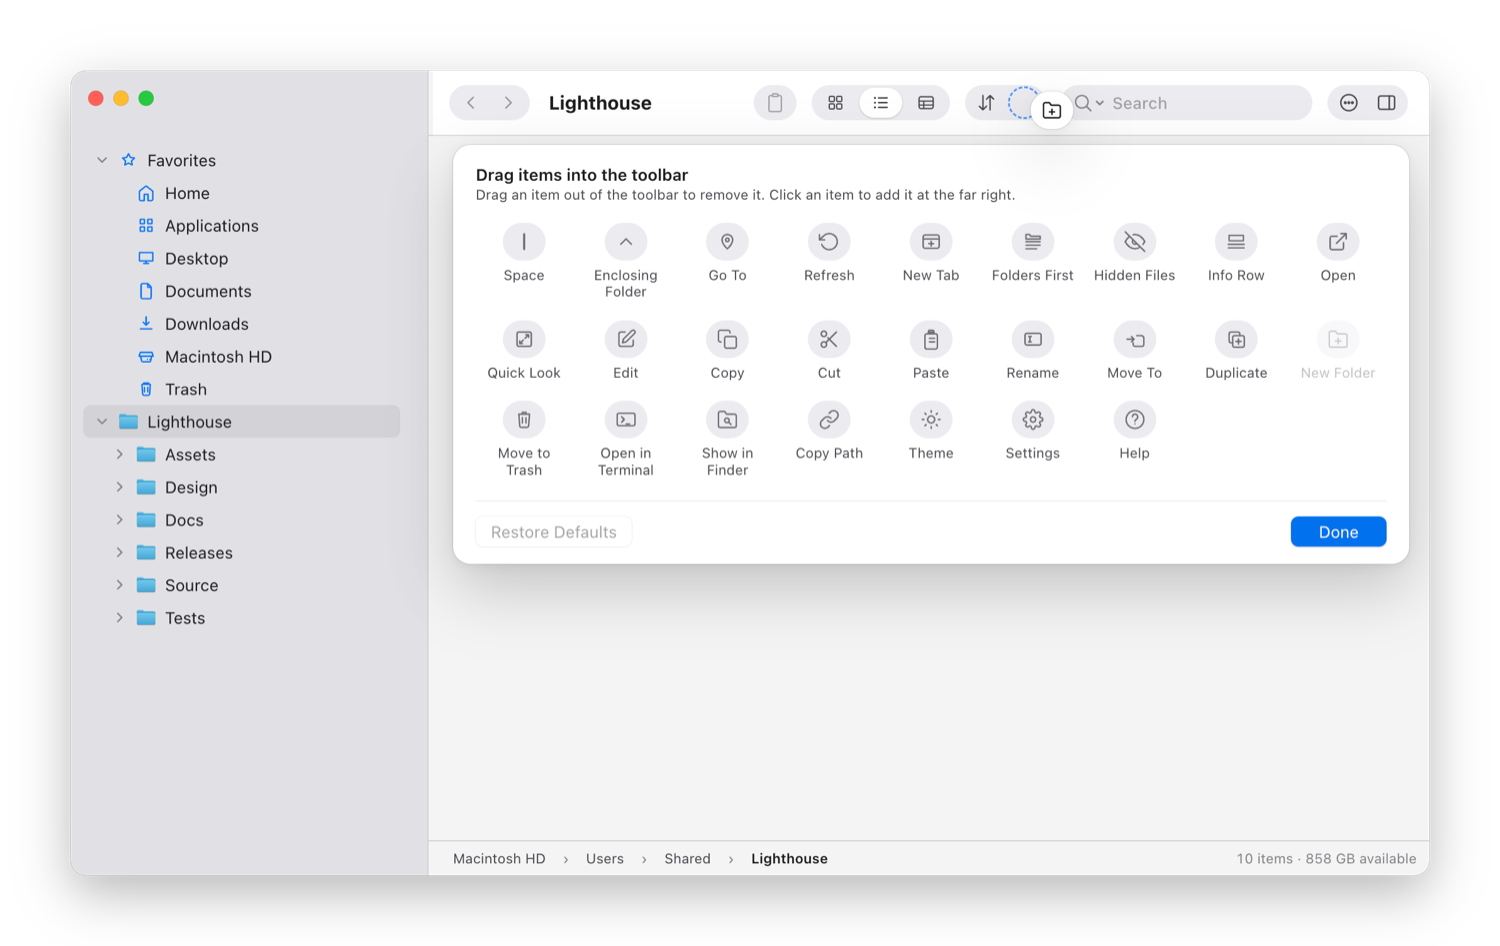
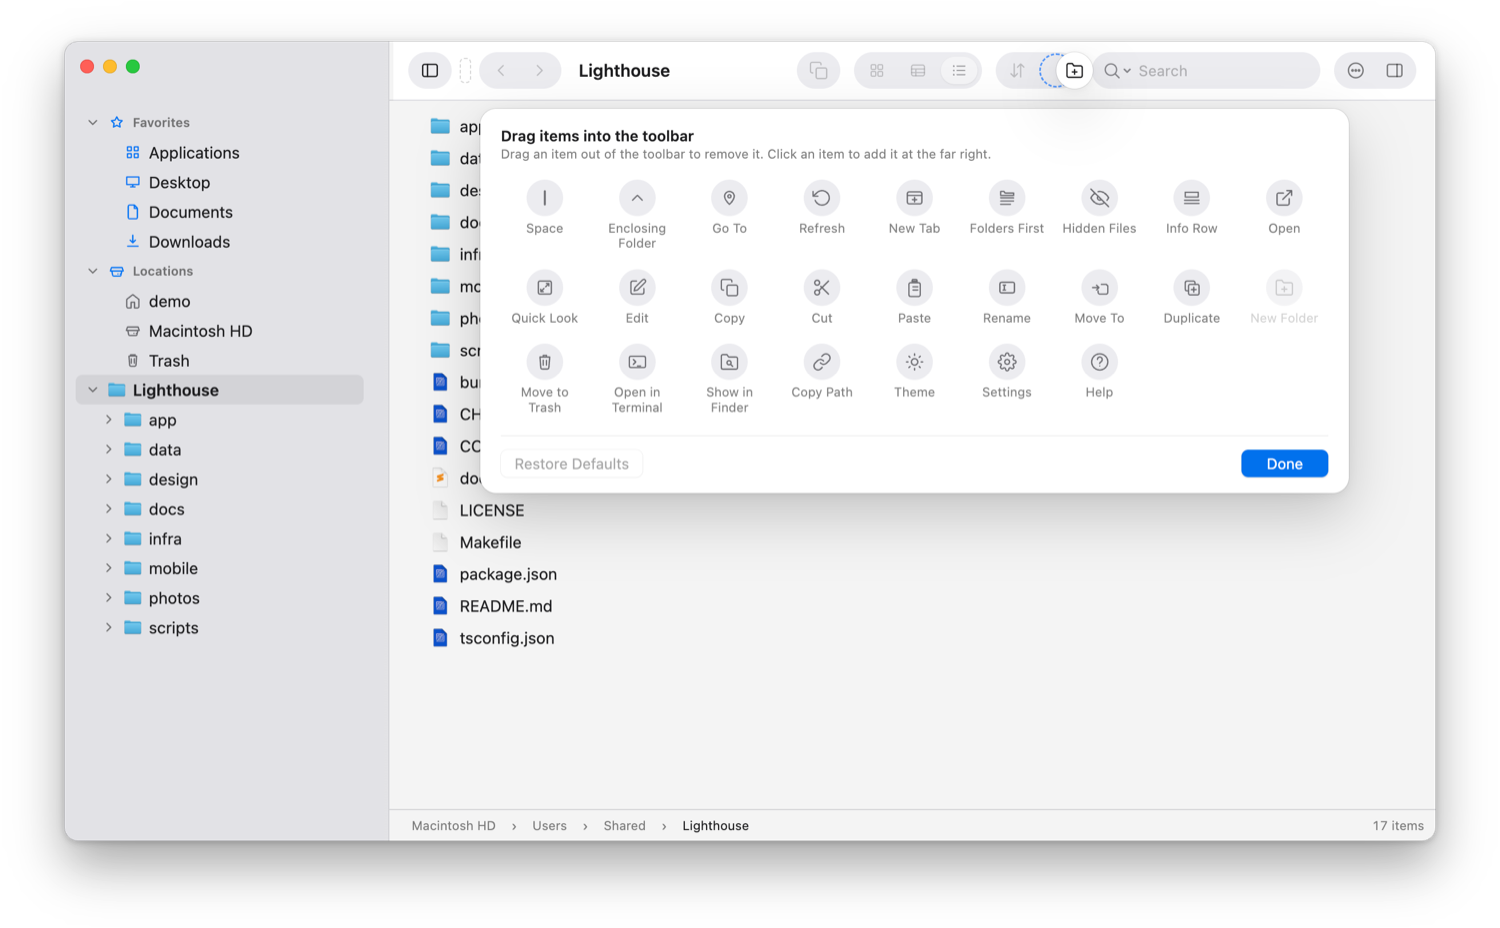
Retake the README screenshots and bring the README up to date
The screenshots showed the app from before the Settings sidebar, Locations,
search results in the folder views and the Finder-style toolbar. They are
retaken from the current build in the same demo project, with the Home row
shown as "demo", and a new one shows the Rename sheet.

The README now covers renaming several items at once, Locations and disks,
and search results in every view. It uses the current view names (Icons,
List, Compact List) and conflict choices (Add Missing), points to the
releases page for notarized builds, and keeps build from source for
unreleased changes and development, with signing folded away.

diff --git a/README.md b/README.md
@@ -5,42 +5,52 @@ A file browser for macOS, built to fix the places where Finder falls short.
 <p align="center">
   <picture>
     <source media="(prefers-color-scheme: dark)" srcset="docs/screenshots/folder-sizes-dark.png">
-    <img src="docs/screenshots/folder-sizes-light.png" alt="File Trail showing a project folder in Details view, sorted by size, with the Info panel open" width="900">
+    <img src="docs/screenshots/folder-sizes-light.png" alt="File Trail showing a project folder in List view, sorted by size, with the Info panel open" width="900">
   </picture>
 </p>
 
 Finder covers the basics. File Trail is for the things it gets wrong or leaves out:
 
-- **Search that works, and is fast.** Results appear as you type, by name or by full path, in plain text, glob or regex.
-- **Type to filter.** Start typing in a folder and the list narrows to the names containing what you typed, where Finder only jumps to one.
-- **A folder tree, not just a sidebar.** You see where you are and what is around it, instead of a flat list of favorites.
-- **Tabs that keep their place.** Each has its own folder, history, view and search.
-- **A clipboard you can see.** What you copied or cut stays marked, and listed in the toolbar, until you paste it.
-- **Folder sizes when you ask.** One click measures a folder and everything in it, and shows what takes the space.
-- **Yours to arrange.** The toolbar, the keyboard shortcuts and the accent color are all up to you.
+- **Search that keeps up with your typing.** By name or full path, in plain text, glob or regex, with nothing to index first.
+- **Rename a batch and see every new name first.** Replace, add, number, date or change case, with a preview of each name and presets for the renames you repeat.
+- **A folder tree, not just a sidebar.** You see where you are and what is around it.
+- **Tabs that keep their place, and a clipboard you can see.** What you copied stays marked until you paste it.
+- **Folder sizes when you ask.** One click measures a folder and everything in it.
+- **Yours to arrange.** The toolbar, the keyboard shortcuts and the accent color are up to you.
 
-The rest works the way you expect a Mac app to.
+Everything else works the way you expect a Mac app to.
 
 ## Search that keeps up with your typing
 
-Type in the search field and results appear as you type: files and folders under the folder you are in, each with the folder it lives in, sortable by name, folder, date or size.
+Type in the search field and results appear as you type: everything under the folder you are in, each with the folder it lives in.
 
 <p align="center">
   <img src="docs/screenshots/search.png" alt="Search results for the word trip, with the matching part of each name highlighted" width="900">
 </p>
 
 - **Plain text by default.** Switch to glob (`*.test.ts`) or regex when you need a pattern, and match against the name or the full path.
-- **Widen or narrow without starting over.** One click moves the search from this folder to Home or the whole disk. The filter field trims what was already found, by name or by folder, without searching again.
+- **Widen or narrow without starting over.** One click moves the search from this folder to Home or the whole disk. The filter field trims what was found, by name or by folder, without searching again.
+- **Results in any view.** Icons, List or Compact List, with columns of their own that you choose and sort.
 - **It knows about Git.** Inside a repository, search can leave out `.git` and whatever `.gitignore` excludes, so build output stays out of the results.
 - **Nothing to set up.** Search runs on a bundled copy of [`fd`](https://github.com/sharkdp/fd). There is no index to build and nothing to install.
 
 Each tab keeps its own search, and a search keeps running while you look at another tab.
 
+## Rename many files at once
+
+Select several items and choose Rename. The Rename sheet replaces or adds text, numbers items or adds their date, or changes their case, and shows every new name before anything is renamed.
+
+<p align="center">
+  <img src="docs/screenshots/batch-rename.png" alt="The Rename sheet numbering 21 photos as Road trip 1, Road trip 2 and so on, with a preview of each new name" width="900">
+</p>
+
+Find and replace can use regular expressions. Photos can be named by the date they were taken. Renames you repeat can be saved as presets. When a new name is already taken, you choose what happens: add a number, skip those items, or rename nothing.
+
 ## See what is taking the space
 
-Ask for a folder's size and File Trail measures it, and every folder inside it, in one pass. Sort the Details view by Size and each row gets a bar, so the heavy folders stand out before you read a single number. The first screenshot on this page shows it.
+Ask for a folder's size and File Trail measures it, and every folder inside it, in one pass. Sort the List view by Size and each row gets a bar, so the heavy folders stand out before you read a number. The first screenshot on this page shows it.
 
-The Info panel gives the size, the number of items, and the space taken on disk when that differs. Sizes are worked out when you ask, not while you browse, so opening a large folder stays instant.
+Sizes are worked out when you ask, not while you browse, so opening a large folder stays instant.
 
 ## Tabs, and a clipboard you can see
 
@@ -52,17 +62,17 @@ Every tab has its own folder, history, folder tree, view, sort order and search.
 
 Copying a folder by mistake is easy to do and annoying to discover later, so File Trail makes the clipboard visible. Copied and cut items stay marked until they are pasted. A button in the toolbar counts them, and opens a list where you can jump to an item, take one off, or clear the lot.
 
-When a paste would overwrite something, you decide what happens: replace, keep both, merge folders, or skip. Anything replaced goes to the Trash.
+When a paste would overwrite something, you decide what happens: Skip, Keep Both, Replace, or for folders, Add Missing, which copies only what the folder there lacks. Anything replaced goes to the Trash.
 
 ## Three views, with real previews
 
 <p align="center">
-  <img src="docs/screenshots/icon-view-tabs.png" alt="A folder of photos in icon view, in a window with three tabs" width="900">
+  <img src="docs/screenshots/icon-view-tabs.png" alt="A folder of photos in Icons view, with several selected, in a window with three tabs" width="900">
 </p>
 
-Icon view shows Quick Look previews of photos, PDFs and other documents. List view packs a folder into compact columns. Details view adds date, size and kind, and optionally date created and permissions. Space opens Quick Look on whatever is selected.
+Icons view shows Quick Look previews of photos, PDFs and other documents. List view has columns for date, size and kind, and optionally date created and permissions. Compact List packs a folder into columns of names. Space opens Quick Look on whatever is selected.
 
-Dates read the way you would say them ("24 min ago", "Yesterday, 6:03 PM"), and files and folders have the icons macOS itself draws for them.
+Dates read the way you would say them ("24 min ago", "Yesterday, 6:03 PM"), and files have the icons macOS itself draws for them.
 
 ## Get around without hunting
 
@@ -70,12 +80,12 @@ Dates read the way you would say them ("24 min ago", "Yesterday, 6:03 PM"), and 
   <img src="docs/screenshots/go-to.png" alt="The Go To box finding two folders from the letters sc" width="900">
 </p>
 
-- **The folder tree** shows the folder you are in and the ones around it. Open a folder's arrow to look inside without leaving where you are, or root the tree at one folder while you work inside a project.
+- **The sidebar** has your favorites, and Locations as in Finder: Home, Macintosh HD, any other disks, and the Trash.
+- **The folder tree** shows the folder you are in and the ones around it. Open a folder's arrow to look inside without leaving where you are, or make one folder the top of the tree while you work inside a project. Hide the tree when you want the room.
 - **Go To (⌘K)** finds any folder you have opened before, or a favorite, from a few letters of its name. The folders you use most come first. Start with `/` or `~` to type a path, and Tab completes it.
-- **Type in the file list** to narrow it to the names containing what you typed. There is no field to click first: the first match is selected, Backspace edits what you typed, and Esc brings the rest back. Press ⌘F and the same text becomes a search of the subfolders.
-- **The path bar** is more than a label: click a folder to jump to it, click a `›` to see the folders at that level and step sideways, or double-click the bar to edit the path as text.
+- **Type in the file list** to narrow it to the names containing what you typed. There is no field to click first: the best match is selected, Backspace edits what you typed, and Esc brings the rest back. Press ⌘F and the same text becomes a search of the subfolders.
+- **The path bar** is more than a label: click a folder to jump to it, click a `›` to see the folders at that level, or double-click the bar to edit the path as text.
 - **Back and Forward** remember more than one step. Hold either button to pick from the folders it leads to.
-- **Every command has a keyboard shortcut**, shown in the menus and listed in the built-in Help.
 
 ## Make it yours
 
@@ -83,8 +93,8 @@ File Trail follows the macOS Light and Dark setting, or stays in the one you pic
 
 <table>
   <tr>
-    <td align="center"><img src="docs/screenshots/palette-macos-light.png" alt="File Trail in Light" width="420"><br>Light</td>
-    <td align="center"><img src="docs/screenshots/palette-macos-dark.png" alt="File Trail in Dark" width="420"><br>Dark</td>
+    <td align="center"><img src="docs/screenshots/theme-light.png" alt="File Trail in Light" width="420"><br>Light</td>
+    <td align="center"><img src="docs/screenshots/theme-dark.png" alt="File Trail in Dark" width="420"><br>Dark</td>
   </tr>
 </table>
 
@@ -92,49 +102,41 @@ Beyond that, you choose the accent color and the zoom level, and the parts you t
 
 <table>
   <tr>
-    <td align="center" width="50%"><img src="docs/screenshots/customize-toolbar.png" alt="Customizing the toolbar, with New Folder being dragged into it from the panel below" width="420"><br><b>The toolbar.</b> Arranged where it is: drag buttons in, along or out, and watch it make room.</td>
-    <td align="center" width="50%"><img src="docs/screenshots/settings-shortcuts.png" alt="The Shortcuts tab of Settings" width="420"><br><b>The keyboard.</b> Two keys per command, with a warning before one is taken from another command.</td>
+    <td align="center" width="50%"><img src="docs/screenshots/customize-toolbar.png" alt="Customizing the toolbar, with New Folder being dragged into it from the panel below" width="420"><br><b>The toolbar.</b> Arranged where it is, as in Finder: drag buttons in, along or out.</td>
+    <td align="center" width="50%"><img src="docs/screenshots/settings-shortcuts.png" alt="The Shortcuts section of Settings" width="420"><br><b>The keyboard.</b> Two keys per command, with a warning before one is taken from another command.</td>
   </tr>
 </table>
 
-Settings also covers the everyday choices: which app edits text files and which terminal opens, what double-click and Return do, which columns Details shows, what search starts with, and whether your tabs and last folder come back at launch.
+Settings also covers the everyday choices: which app edits text files and which terminal opens, what double-click and Return do, which columns List view and search results show, what search starts with, and whether your tabs and last folder come back at launch.
 
 ## Also in the box
 
-- Favorites in the sidebar, with an icon of your choice for each
+- Favorites in the sidebar, with an icon of your choice for each, in the order you drag them to
 - Open in Terminal and Copy Path on a key, and Open With for the apps you choose
-- Rename, duplicate, move, new folder and Move to Trash
+- Duplicate, Move To, New Folder and Move to Trash, with the Info panel and Quick Look a key away
 - Hidden files on a key (⇧⌘.), and folders kept first when you want them
-- Built-in Help that follows the shortcuts you have set
+- Every command on a keyboard shortcut, shown in the menus and listed in the built-in Help
 
 ## Install
 
-Download the latest build from the [releases page](https://github.com/mdemirhan/filetrail/releases):
+File Trail is released periodically as a signed and notarized app. Get the latest from the [releases page](https://github.com/mdemirhan/filetrail/releases):
 
-1. Download `FileTrail-arm64.zip`, the build for Apple Silicon Macs.
-2. Unzip it and move `File Trail.app` into your Applications folder.
+1. Download `FileTrail-arm64.dmg` (or the `.zip`).
+2. Move `File Trail.app` into your Applications folder.
 3. Open it.
 
-File Trail runs on Apple Silicon Macs only. Releases are beta builds and can trail `main`; to run the newest version, build from source. It takes a few minutes.
+File Trail runs on Apple Silicon Macs. Releases are beta builds.
 
 ## Build from source
 
-You need an Apple Silicon Mac, [Bun](https://bun.sh/), and the Xcode Command Line Tools (`xcode-select --install`) for the native part.
+You only need this for changes that haven't been released yet, or to work on File Trail itself. You need an Apple Silicon Mac, [Bun](https://bun.sh/), and the Xcode Command Line Tools (`xcode-select --install`) for the native part.
 
 ```bash
 bun install
 bun run desktop:start
 ```
 
-That builds the app and its native helpers and launches it. To make an app bundle under `apps/desktop/out`:
-
-```bash
-bun run desktop:make:mac:notarized   # signed and notarized, plus a ZIP and a disk image to share
-bun run desktop:make:mac             # signed with your Developer ID, not notarized
-bun run desktop:make:mac:adhoc       # signed ad hoc, for this Mac only
-```
-
-Signing uses the Developer ID Application certificate in `~/Documents/Apple Developer Certificates/developerID_application.cer` (or the one `MACOS_SIGN_CERT` names), with its private key in your keychain. Notarizing uses the `notarytool` keychain profile `filetrail` (or the one `MACOS_NOTARY_PROFILE` names); create it once with `xcrun notarytool store-credentials filetrail --apple-id <email> --team-id <team ID>`. `apps/desktop/scripts/make-macos-app.sh --help` has the details.
+That builds the app and its native helpers and launches it.
 
 While working on the code:
 
@@ -145,6 +147,21 @@ bun run lint
 ```
 
 `bun run test` leaves out the few tests that write large files (stopping a long copy, filling a disk). Run them with `bun run test:release` before a release; `bun run ci` includes them too.
+
+<details>
+<summary>Making an app bundle</summary>
+
+To make an app bundle under `apps/desktop/out`:
+
+```bash
+bun run desktop:make:mac:notarized   # signed and notarized, plus a ZIP and a disk image to share
+bun run desktop:make:mac             # signed with your Developer ID, not notarized
+bun run desktop:make:mac:adhoc       # signed ad hoc, for this Mac only
+```
+
+Signing uses the Developer ID Application certificate in `~/Documents/Apple Developer Certificates/developerID_application.cer` (or the one `MACOS_SIGN_CERT` names), with its private key in your keychain. Notarizing uses the `notarytool` keychain profile `filetrail` (or the one `MACOS_NOTARY_PROFILE` names); create it once with `xcrun notarytool store-credentials filetrail --apple-id <email> --team-id <team ID>`. `apps/desktop/scripts/make-macos-app.sh --help` has the details.
+
+</details>
 
 ## How it is built
 
